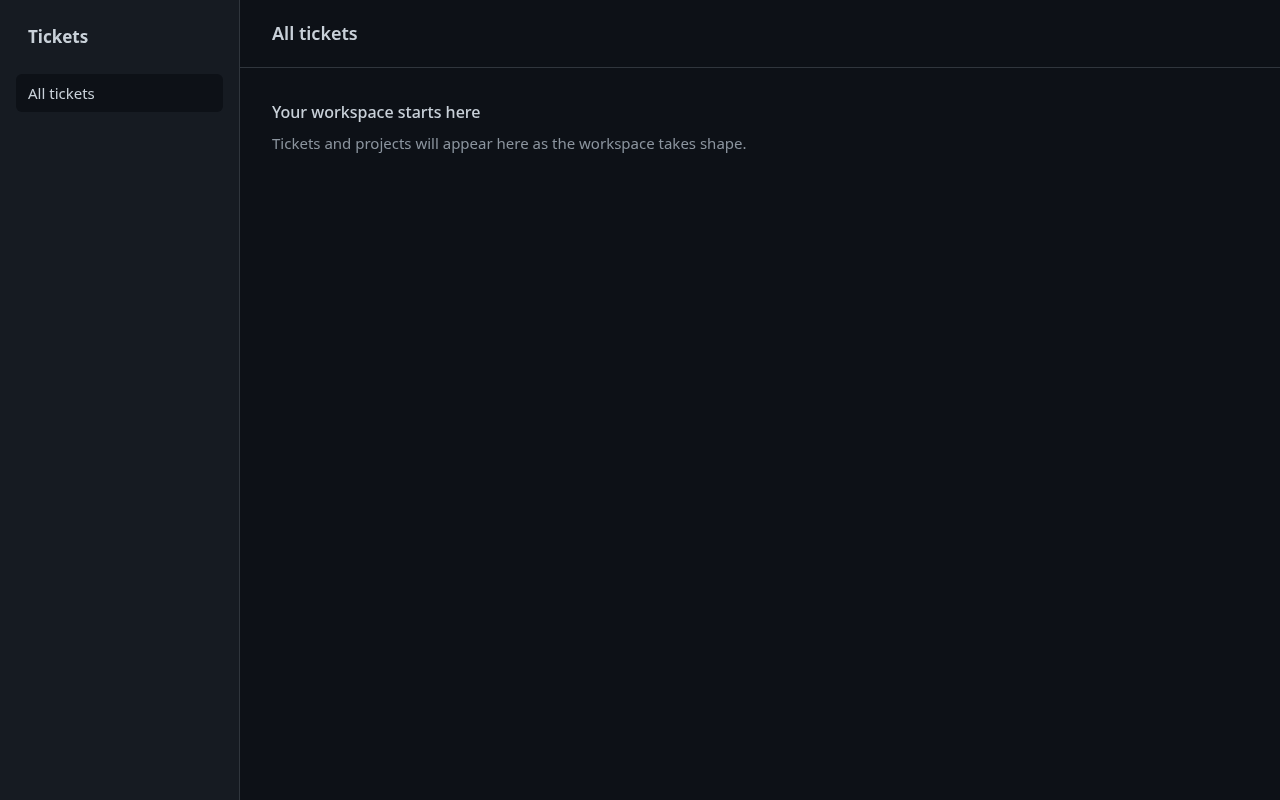
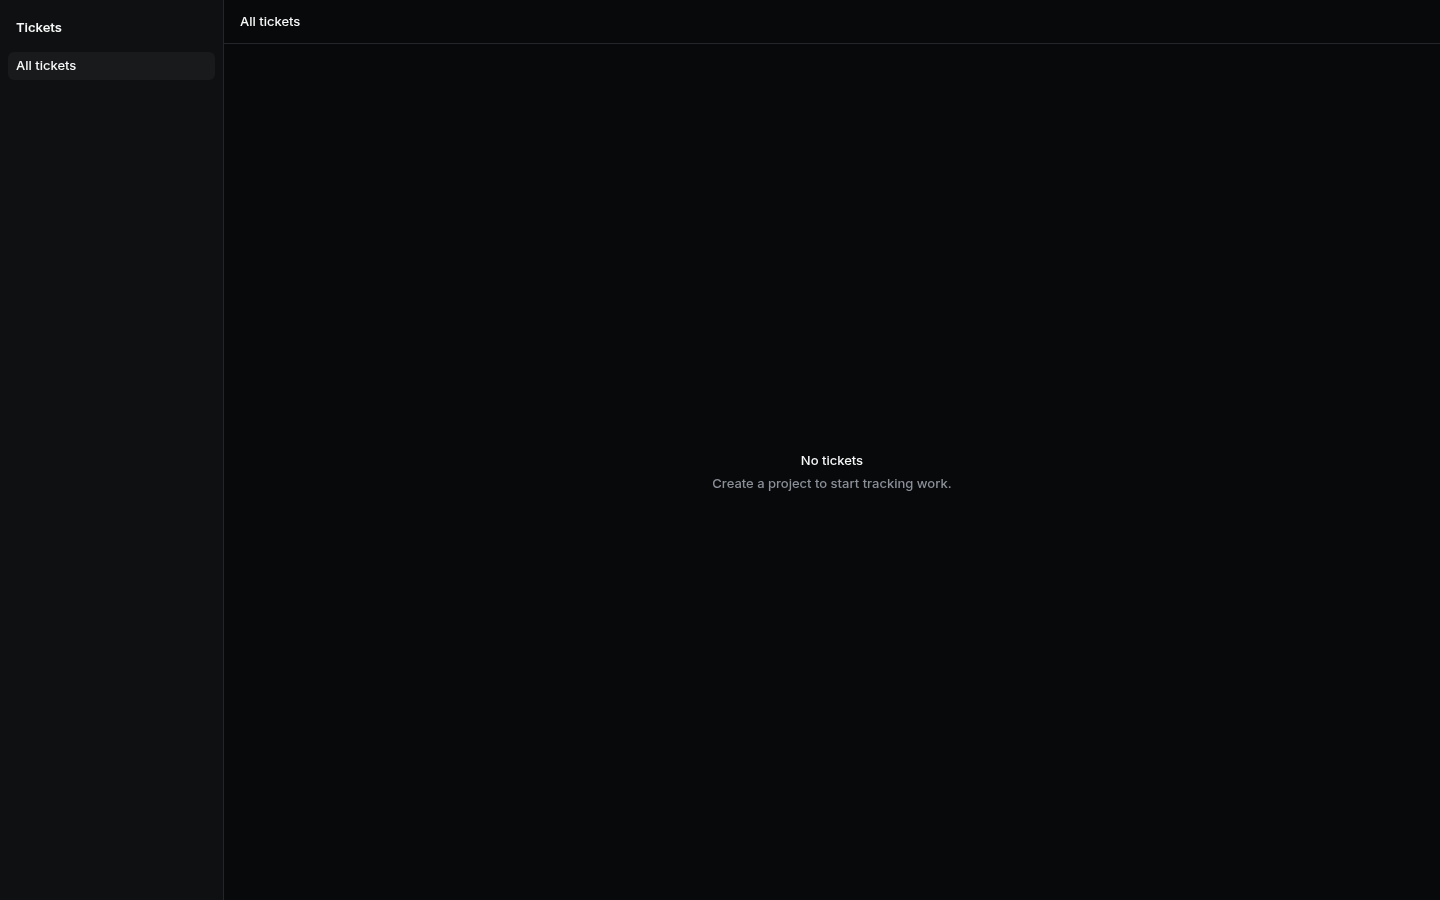
style: restyle scaffold shell to Linear-sourced design tokens

diff --git a/crates/web/style.css b/crates/web/style.css
@@ -1,14 +1,25 @@
- :root { color-scheme: dark; --background: #0d1117; --surface: #161b22; --border: #30363d; --text: #c9d1d9; --muted: #8b949e; --focus: #58a6ff; font: 15px/1.5 system-ui, sans-serif; color: var(--text); background: var(--background); }
+/* Interim shell styling on the #6 design tokens (Linear-sourced). The full design system lands in #6. */
+:root {
+  color-scheme: dark;
+  --bg: #08090a; --sidebar: #0f1011; --surface-1: #141516; --surface-2: #191a1b;
+  --border: #23252a; --text-1: #f7f8f8; --text-2: #d0d6e0; --text-3: #8a8f98; --text-4: #62666d;
+  --accent: #5e6ad2; --radius-sm: 6px;
+  font: 510 13px/1.5 "Inter Variable", Inter, ui-sans-serif, system-ui, -apple-system, "Segoe UI", sans-serif;
+  font-feature-settings: "cv01", "ss03"; -webkit-font-smoothing: antialiased;
+  color: var(--text-2); background: var(--bg);
+}
 * { box-sizing: border-box; }
-body { margin: 0; min-height: 100vh; display: grid; grid-template-columns: 240px 1fr; }
-aside { padding: 24px 16px; background: var(--surface); border-right: 1px solid var(--border); }
-aside strong { display: block; padding: 0 12px 24px; font-size: 17px; }
-nav a { display: block; padding: 8px 12px; border-radius: 6px; background: var(--background); }
-a { color: var(--text); text-decoration: none; }
-a:focus-visible { outline: 2px solid var(--focus); outline-offset: 3px; }
-header { padding: 20px 32px; border-bottom: 1px solid var(--border); }
-h1 { margin: 0; font-size: 18px; font-weight: 600; }
-section { padding: 32px; max-width: 680px; }
-h2 { font-size: 16px; font-weight: 500; margin: 0 0 8px; }
-p { margin: 0; color: var(--muted); }
-@media (max-width: 600px) { body { grid-template-columns: 1fr; } aside { border-right: 0; border-bottom: 1px solid var(--border); padding: 16px; } aside strong { padding: 0 12px 12px; } header, section { padding: 24px; } }
+body { margin: 0; min-height: 100vh; display: grid; grid-template-columns: 224px 1fr; }
+aside { padding: 12px 8px; background: var(--sidebar); border-right: 1px solid var(--border); }
+aside strong { display: flex; align-items: center; height: 32px; padding: 0 8px; margin-bottom: 8px; font-size: 13px; font-weight: 590; color: var(--text-1); }
+nav a { display: flex; align-items: center; height: 28px; padding: 0 8px; border-radius: var(--radius-sm); color: var(--text-2); }
+nav a:hover { background: var(--surface-1); }
+nav a[aria-current="page"] { background: var(--surface-2); color: var(--text-1); }
+a { color: inherit; text-decoration: none; }
+:focus-visible { outline: 1px solid var(--accent); outline-offset: 1px; }
+header { display: flex; align-items: center; height: 44px; padding: 0 16px; border-bottom: 1px solid var(--border); }
+h1 { margin: 0; font-size: 13px; font-weight: 510; color: var(--text-1); }
+section { display: grid; place-content: center; min-height: calc(100vh - 44px); text-align: center; }
+h2 { font-size: 13px; font-weight: 510; color: var(--text-1); margin: 0 0 4px; }
+p { margin: 0; color: var(--text-3); }
+@media (max-width: 600px) { body { grid-template-columns: 1fr; } aside { border-right: 0; border-bottom: 1px solid var(--border); } }

diff --git a/crates/web/src/main.rs b/crates/web/src/main.rs
@@ -16,7 +16,7 @@ fn App() -> impl IntoView {
                 <Routes fallback=|| view! { <h1>"Page not found"</h1><a href="/">"Back to tickets"</a> }>
                     <Route path=path!("/") view=|| view! {
                         <header><h1>"All tickets"</h1></header>
-                        <section aria-label="Tickets placeholder"><h2>"Your workspace starts here"</h2><p>"Tickets and projects will appear here as the workspace takes shape."</p></section>
+                        <section aria-label="Tickets placeholder"><h2>"No tickets"</h2><p>"Create a project to start tracking work."</p></section>
                     }/>
                 </Routes>
             </main>
